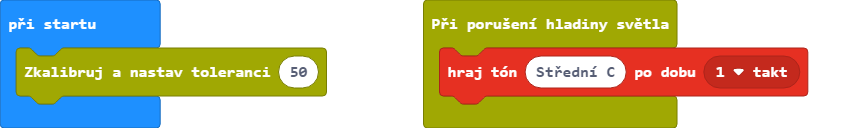
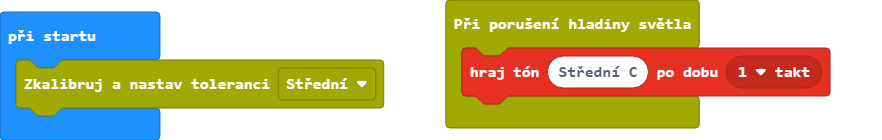
Aktualizovat main.blocks, main.ts, lightgate.ts

Changed region(s): [[0.4837, 0.0, 0.9674, 1.0], [0.0, 0.0, 0.4535, 1.0], [0.0, 0.125, 0.1209, 0.3125]]

diff --git a/lightgate.ts b/lightgate.ts
@@ -1,6 +1,16 @@
+enum Deviation {
+    //% block="Malá"
+    Small = 10,
+    //% block="Střední"
+    Medium  = 20,
+    //% block="Velká"
+    Large = 30,
+
+}
+
 //% weight=100 color=#a0a803 icon="\uf030" block="Světelná brána"
 namespace lightGate {
-    let toleration = 0
+    let toleration = Deviation.Medium
     let lightLevel = 0
     let methodLock = false
 
@@ -11,13 +21,13 @@ namespace lightGate {
     //% block="Zkalibruj a nastav toleranci %tol"
     //% tol.min=0 tol.max=255
 
-    export function calibrate(tol: number): void {
+    export function calibrate(dev: Deviation): void {
         let sumOfMeasurements = 0;
         for (let i = 0; i < 10; i++) {
             sumOfMeasurements += input.lightLevel()
         }
         lightLevel = Math.round(sumOfMeasurements / 10)
-        toleration = tol;
+        toleration = dev;
     }
 
     /**

diff --git a/main.ts b/main.ts
@@ -1,4 +1,4 @@
 lightGate.onLightLevelDrop(function () {
     music.playTone(262, music.beat(BeatFraction.Whole))
 })
-lightGate.calibrate(50)
+lightGate.calibrate(Deviation.Medium)
